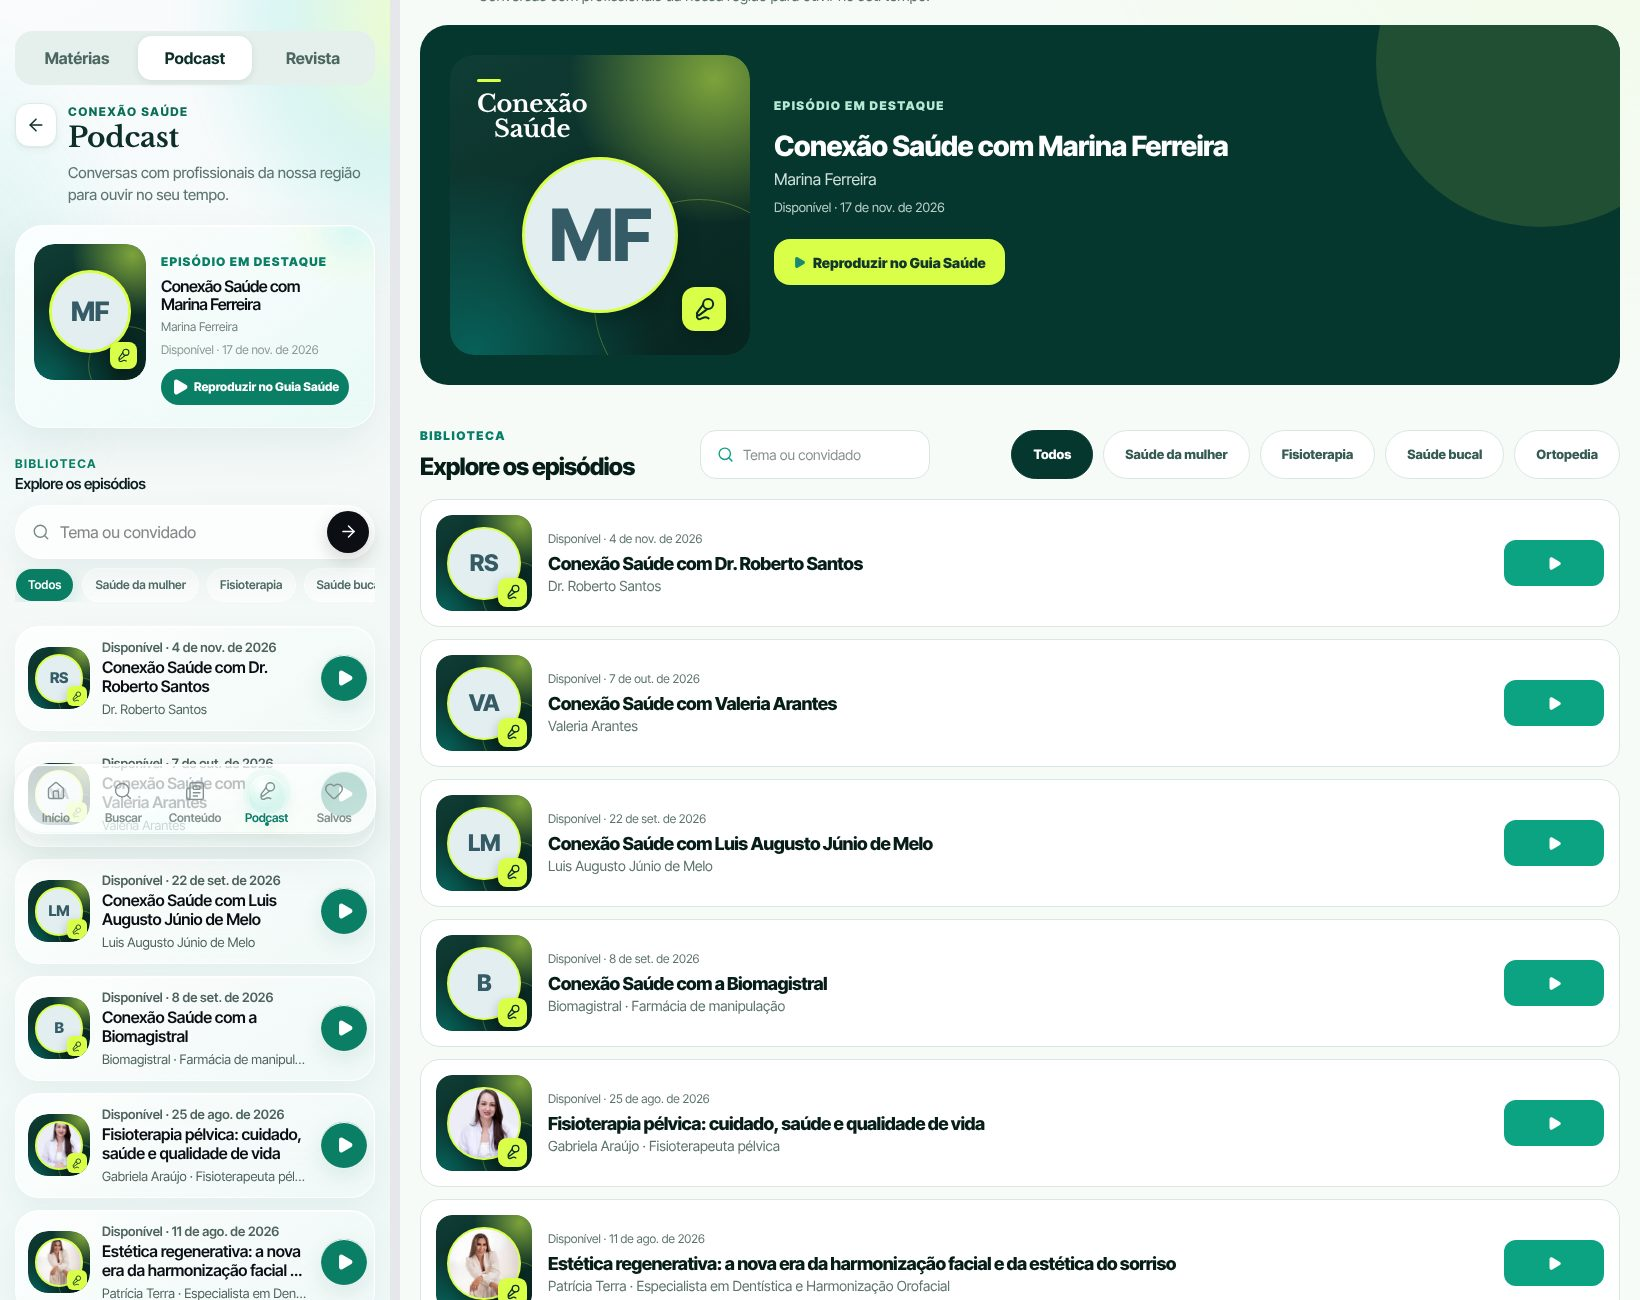
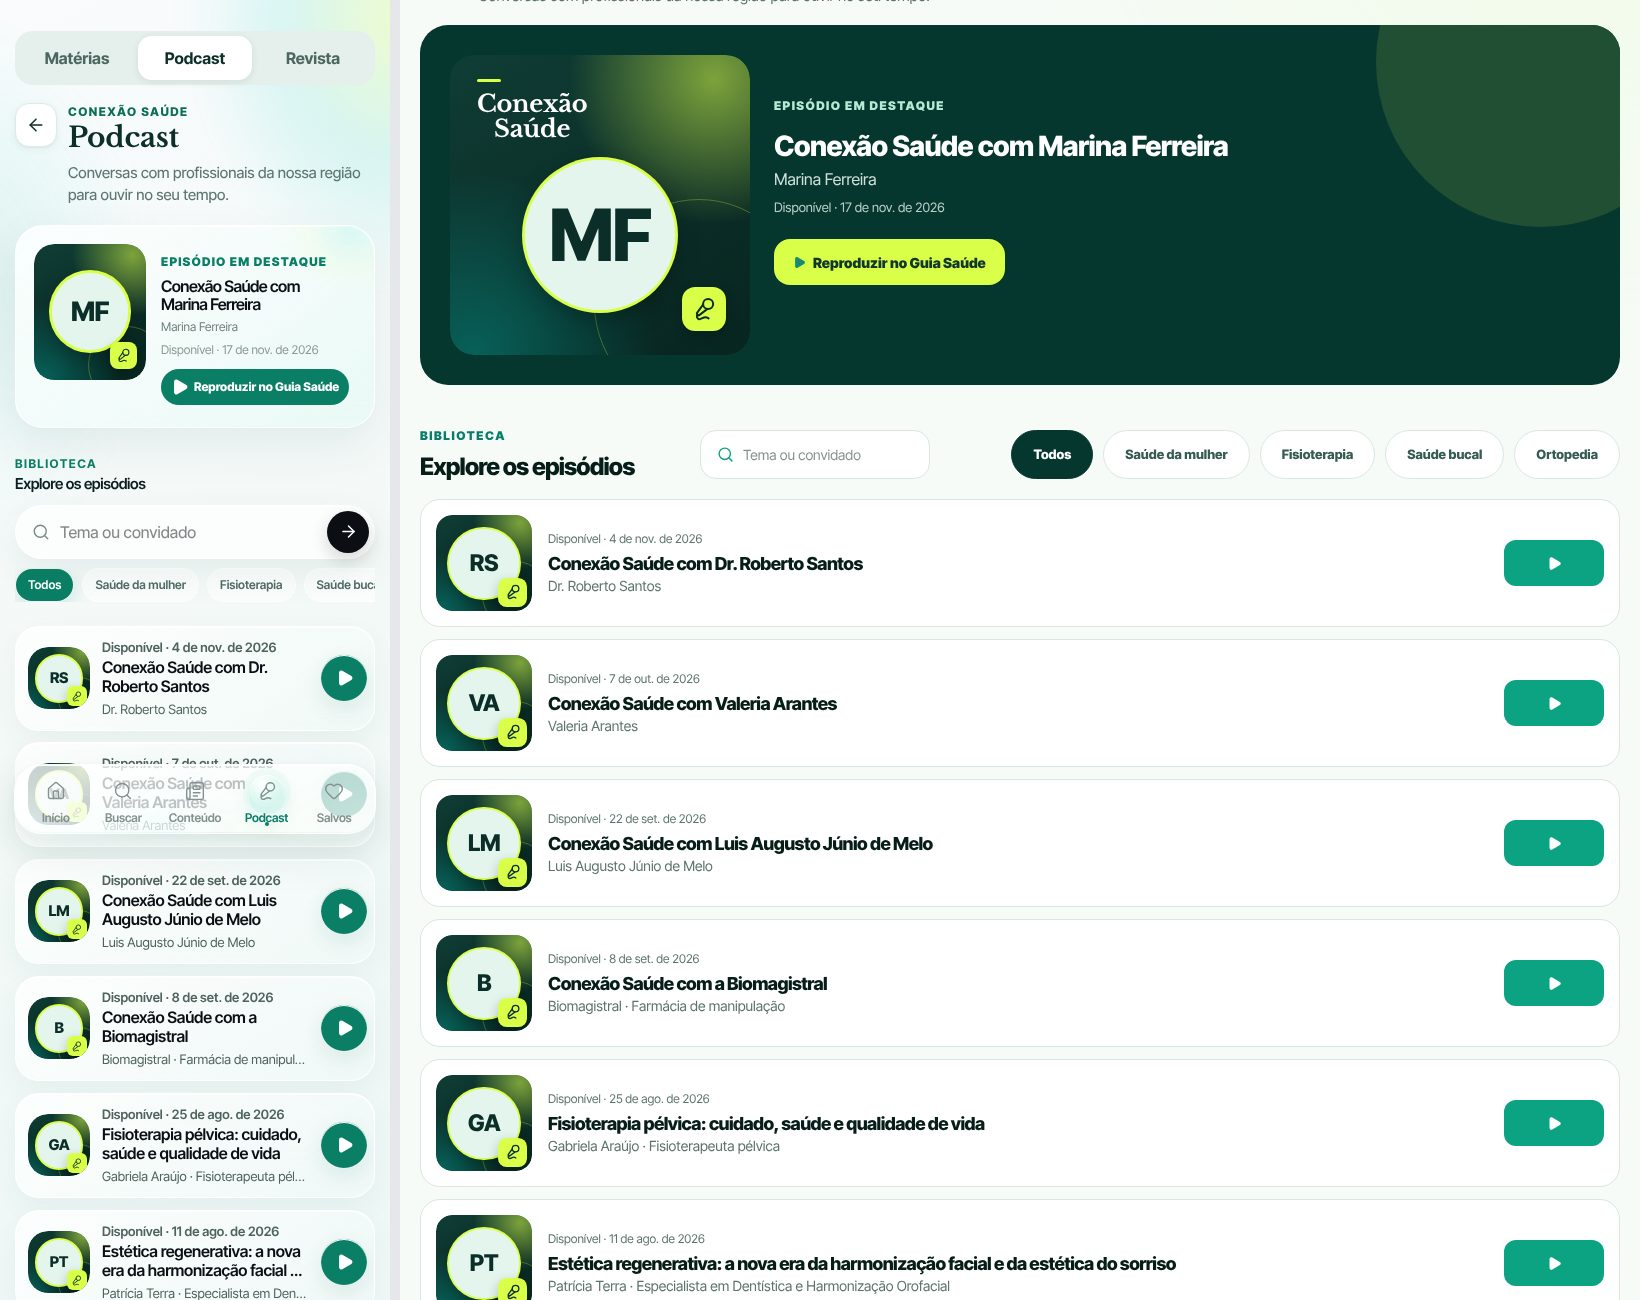
Podcast: capas iguais para todos os episódios, sem foto
A pedido, as capas que usavam a foto do convidado passam a usar o mesmo padrão
das demais: iniciais do convidado em círculo claro com anel verde-limão, sobre o
fundo verde-escuro do Conexão Saúde. Todas com as mesmas cores.

Claude-Session: https://claude.ai/code/session_01PZp81Khoa3TPX5KAbLJAE5

diff --git a/components/podcast/PodcastCover.tsx b/components/podcast/PodcastCover.tsx
@@ -1,25 +1,17 @@
-import type { CSSProperties } from "react";
 import { Mic2 } from "lucide-react";
-import { initialsFor, paletteFor } from "@/lib/avatars";
-import { ProfessionalImage } from "@/components/ProfessionalImage";
+import { initialsFor } from "@/lib/avatars";
 
 export type CoverEpisode = { guest: string; role?: string; guestPhoto?: string; guestArea?: string };
 
-/** Capa padrão do Conexão Saúde: fundo verde-escuro da marca, foto do convidado (ou as
- *  iniciais na cor da área) com anel verde-limão e o selo do programa. Gerada pelo
- *  próprio site, inclusive para os episódios que chegam sozinhos do YouTube.
+/** Capa padrão do Conexão Saúde, igual para todos os episódios: fundo verde-escuro da
+ *  marca, iniciais do convidado num círculo com anel verde-limão e o selo do microfone.
+ *  Gerada pelo próprio site, inclusive para os episódios que chegam sozinhos do YouTube.
  *  `size="feature"` mostra também o nome do programa; `size="row"` é a miniatura da lista. */
 export function PodcastCover({ episode, size = "row" }: { episode: CoverEpisode; size?: "row" | "feature" }) {
-  const area = episode.guestArea || episode.role || "";
-  const palette = paletteFor(area);
   return <span className={`pc pc-${size}`} aria-hidden="true">
     <span className="pc-glow" />
     {size === "feature" ? <span className="pc-brand">Conexão<br />Saúde</span> : null}
-    <span className="pc-photo">
-      {episode.guestPhoto
-        ? <ProfessionalImage src={episode.guestPhoto} sizes={size === "feature" ? "180px" : "72px"} />
-        : <span className="pc-initials" style={{ "--pc-bg": palette.background, "--pc-fg": palette.text } as CSSProperties}>{initialsFor(episode.guest)}</span>}
-    </span>
+    <span className="pc-photo"><span className="pc-initials">{initialsFor(episode.guest)}</span></span>
     <span className="pc-badge"><Mic2 size={size === "feature" ? 16 : 11} /></span>
   </span>;
 }

diff --git a/app/portal-canonical.css b/app/portal-canonical.css
@@ -7517,3 +7517,5 @@ html body .pc-feature .pc-photo{width:50%!important;margin-top:20%!important}
 @container (max-width:170px){html body .pc-feature .pc-photo{width:68%!important;margin-top:0!important}}
 html body .hos-podcast-row-play{color:#fff!important}
 html body .hos-podcast-row-play svg{color:#fff!important;fill:#fff!important;opacity:1!important}
+/* Capas padronizadas: as iniciais têm sempre as mesmas cores */
+html body .pc .pc-initials{background:#e4f5ee!important;color:#0b2e28!important}
